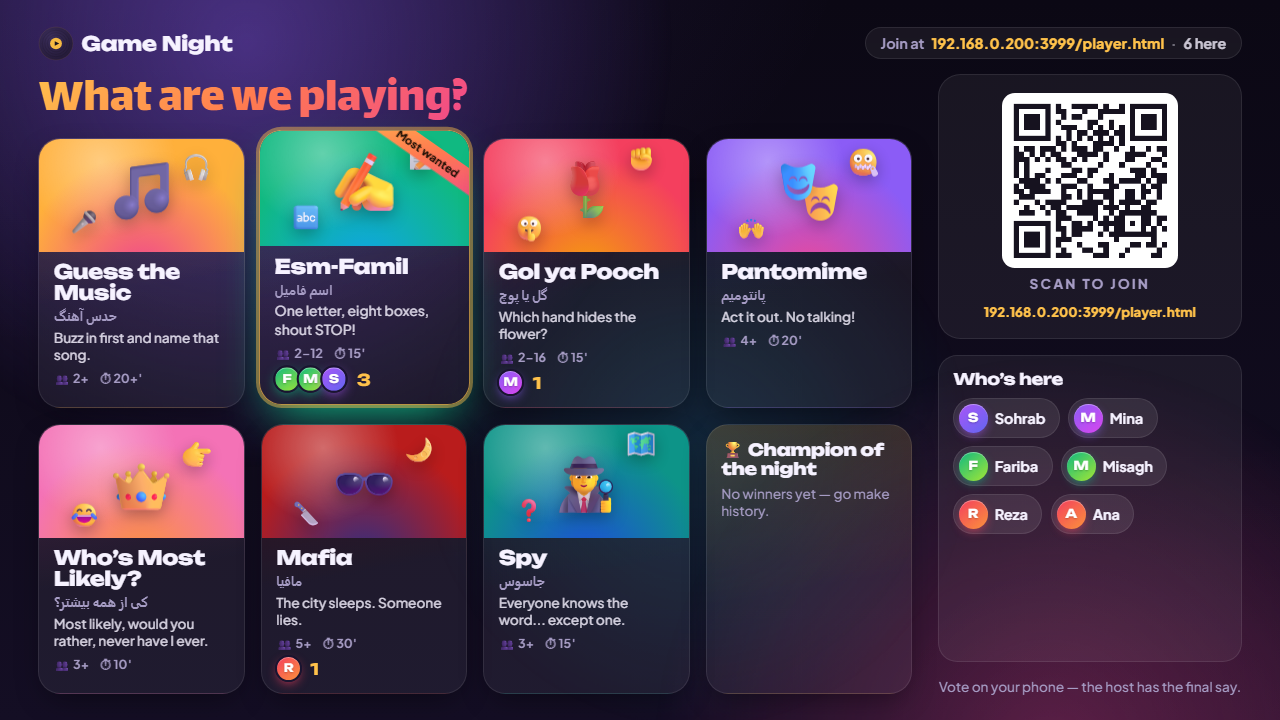
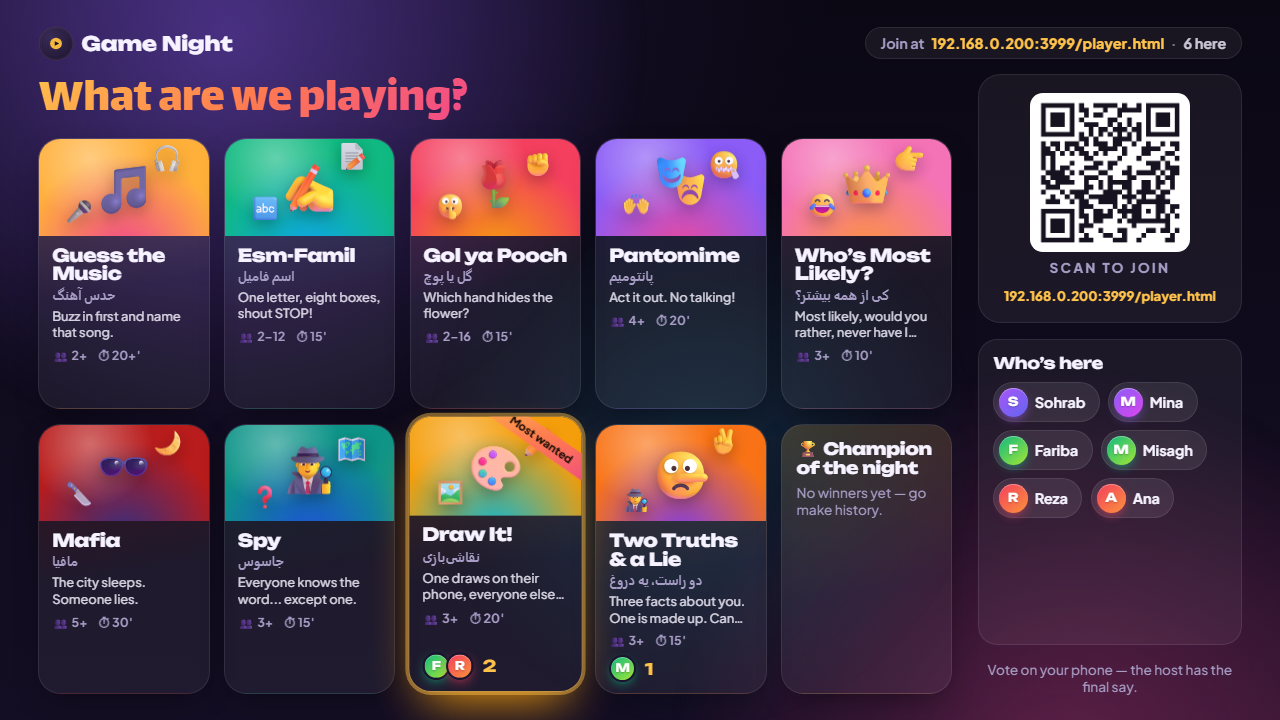
Docs: Draw It!, Two Truths & a Lie, one-TV sound and the song editor (Phase 35)
Claude-Session: https://claude.ai/code/session_01R64FqpmCsCYEaZ5ZMa5x9N

diff --git a/CLAUDE.md b/CLAUDE.md
@@ -290,6 +290,16 @@ Phase 34 (shipped) — every hub game expanded ("make them more complete and fun
 - Bugs found by screenshots: `.hub-card`'s entrance animation with `fill-mode: both` kept overriding the spotlight / "most wanted" transforms forever (→ `backwards`); the letter grid offered hard letters with them off; the golden "×2" used a Latin digit on Farsi; the phone hint said "tap a player" on rather/never rounds. And the Phase 33 middle-dot lesson struck twice more: the new Pantomime card «آسون · ۱ امتیاز» read as "Easy, 10 points", and the phone's Mafia vote eyebrow «روز ۱ · ۵۸» (day number · countdown) read as "Day 1058" — that one dated from Phase 33 and survived its double-check. Before shipping anything a Farsi screen shows, grep the strings AND the view templates for `·` (`Hub.SEP` in HTML, the Persian comma «،» inside a translated string).
 - Tests (scratch): `test-expand.js` 47 socket checks for all of the above; the Phase 33 suites (98 + 18 + 16 + 11 + 13 + 7 + parity) still pass. Screenshot-harness lessons: (1) headless Chromium on localhost HAS Wake Lock but denies it, so every phone screenshot showed the "your phone may lock itself" hint — real phones over http have no Wake Lock and NoSleep's video fallback reports 'on'; strip `Navigator.prototype.wakeLock` in an init script to match reality. (2) A `.ps1` run from Git Bash needs `-ExecutionPolicy Bypass`; with the error swallowed, "stop the test server" silently did nothing and the next "fresh" run reused the previous run's instance — check the port is actually free before starting another.
 
+Phase 35 (shipped) — tests in the repo, one TV plays sound, Draw It!, Two Truths & a Lie, song editor:
+
+- **Tests live in the repo now** (`tests/`, `npm test`; the scratch-dir copies kept getting wiped by temp cleanup). `tests/run.js` starts the real `server.js` once per suite on :3999 with `DATA_DIR=<throwaway dir>` and `NO_MDNS=1` (two small env switches added to server.js for this), cwd = that dir so dotenv loads no `.env`; JOIN_PIN/API keys are blanked, the pin suite sets its own. `npm test -- hub pin`, `--no-browser`, `-v`. socket.io-client + playwright are devDependencies. Playwright 1.65 wants chromium build 1254 but this PC has 1243: `tests/lib/browser.js` falls back to the newest installed `chromium_headless_shell-*` instead of forcing a 150 MB download. 13 suites, 390 checks: misc, hub, expand, edge, adult, tvs, draw, truths, music, plus the browser suites switch, ui, songs, pin.
+- **Only one TV plays sound** (`games/tv-screens.js`): every TV page (music and hub) registers with a per-tab `screen` id (sessionStorage, so it survives the music <-> hub hand-off), `kiosk` (launch-kiosk.ps1 now opens `tv.html?kiosk=1`), `fullscreen` (screen size == window size: catches a kiosk launched the old way) and `visible`. The server picks one sound screen: latest "Play the sound here" click > kiosk > full screen > visible > opened first; a click replaces earlier clicks; a screen that disconnects keeps its place for 8 s (page changes/reloads). Each TV socket gets `tvSound {sound, screens}` — sent *before* its first state, so a second TV is muted before it ever starts a song. `tv:playerStatus` only counts from the sound screen. `public/js/tv-sound.js` (shared by both TV pages) shows the muted note + button; tv.js wraps each YT player's `mute`/`unMute` once (`guardSound`) so the existing preroll/fade/spare code keeps saying what it wants and a muted screen just never really unmutes; `playTones` and the hub's `tones`/`noise` are silent there. Host pages show "📺 N TV screens open" (`tvScreens` in both host payloads). Verified with real YouTube playback (two TV pages, defaults and animations off, claim before/after the spare preloaded). **Harness lesson:** polling a TV page with `page.evaluate` every 200 ms in a two-TV headless run stalled the TV's countdown and looked like a bug (I chased it for a while); sampling every 500–700 ms showed it working. Don't poll TV pages faster than ~2/s.
+- **Draw It!** (`games/draw.js`, `public/hub/js/draw.js`): choosing (2 easy + 1 hard ×2, 15 s then a random easy one) → drawing → reveal (time-lapse replay) → final (podium + gallery of the night). Scoring 3/2/1 per guess order, artist +1 per right guess, hard doubles all of it. Strokes stay out of the regular payload: the artist's phone batches points every 40 ms (`player:draw:stroke {i, c, w, p}`, coordinates in a 1000×750 space, server clamps/validates and keeps the drawing), relayed as `draw:pts`; undo/clear send `draw:all`; a page that (re)loads mid-turn emits the new generic **`hub:sync`** (hub.js calls the active game's `sync(socket)`) and gets `draw:sync`; the gallery (thinned points, last 12) goes out once as `draw:gallery`. Guess matching: answerKey + leading article / plural ending (en: a/an/the, -s/-es; fa: یه/یک, ها); **no substring matching** — short Persian words sit inside longer ones (در/دریا, ماه/ماهی). A near miss (edit distance 1, or 2 for 8+ letters, only for 4+ letter words) is private "so close", never on the TV feed. Letter hints at 50% and 75% (never more than all-but-two letters). Words (`games/data/draw-words.js`, fa 115+75, en 110+74) allow alternatives after `/` (هندونه/هندوانه, Sofa/Couch); drawn words don't repeat tonight.
+- **Two Truths & a Lie** (`games/truths.js`): lines are written in the lobby (or mid-game: a new writer is appended to the queue) and only ever sent to their own phone until told; the lie's position goes to the teller always and to everyone at the reveal; lines are shuffled per turn. telling (question time, default 30 s, 0 skips) → voting (secret, changeable) → reveal. Catch +1; teller +1 per fooled voter, +1 more for fooling everyone (2+ voters). Told lines are deleted (write new ones next game); a skipped teller keeps theirs.
+- **Menu** is a 5×2 grid now (9 games + champions); taglines clamp to 2 lines. **Bidi:** the other-language subtitle under a game name rendered "!Draw It" in the Farsi lobby — a plain `<bdi>` wasn't enough there; it now gets an explicit `dir` (lobby, menu card, splash).
+- **Song editor:** `host:setSongInfo` takes `artist` and `year` too (year '' / null clears year + decade, a valid year sets the decade, a blank title is ignored). Host page: ✎ on every playlist row and a "＋ year" chip on songs without one open a dialog that lives outside the playlist (which is rebuilt on every broadcast). Keyboard shortcuts no longer fire for Space/Enter on a focused button or chip, while the dialog is open, or with Ctrl/Alt/Meta (Ctrl+R used to reset the buzzers, Ctrl+C to close the round).
+- **Data cleanup** (live playlist edited while the server was stopped; backup `playlist.backup-before-phase35-cleanup.json`): the 9 songs with no decade got a year (best guesses — release year where the video description says it, else the upload year; "Moein Live Concert" is really "Be Didane Man (Live)"). Checking the 263 oldest entries against their real YouTube videos found 3 broken ones: two videos deleted from YouTube ("Shabe Sher" — Shohreh, "Kabootar" — Shahram Solati → their official Topic uploads) and "Nafas-e Jan" pointing at an unrelated Indonesian song (→ Morteza Jafarzadeh's "Nafas Jan", the best-known one); all three verified playing in the real player. The "messy titles of the original 284 songs" from Phases 22/23 turned out to be already clean. At the user's request three anonymous tracks with no known artist were removed ("Azeri Dance Music", "Raghs va Avaz Shad Kordi", "Vay Vay"; backup playlist.backup-before-removing-3-anonymous.json): 3,161 songs.
+
 Next ideas, not yet started:
 
 - More languages — i18n.js's translations object is keyed by language code, so adding a third is mostly copying the 'en'/'fa' block and adding a toggle button in host.html.

diff --git a/README.md b/README.md
@@ -21,6 +21,8 @@ Guess the Music is one game in a hub. The TV opens on a game menu; players vote 
 | 👑 **Who's Most Likely?** · کی از همه بیشتر؟ | A question goes up, everyone secretly votes for a player, the votes stack up on the TV. Voting with the crowd = +1; the "winners" collect titles. Mixed in: *Would you rather* (the bigger side scores) and *Never have I ever* (no points, just confessions). Players can write their own questions. |
 | 🕶 **Mafia** · مافیا | The app narrates. Secret roles on phones (Godfather, Mafia, Doctor, Detective, optional Sniper, Citizens). At night *everyone* taps someone — citizens pick a "suspect" — so nobody can tell who's who from who's tapping. By day the town votes someone onto trial: they get a defense, then a secret guilty / innocent vote and last words. Optional Bulletproof (survives one shot) and Jester (wins if voted out). The host page is a narrator dashboard with one "next step" button. |
 | 🕵 **Spy** · جاسوس | Everyone sees the same secret word except the spy. Ask each other questions, then vote; a caught spy can still win by picking the word from the board on the TV. The TV sets a shuffled asking order, and a bold spy can call the word early: right = +3, wrong = everyone else scores. |
+| 🎨 **Draw It!** · نقاشیبازی | One player draws a secret word on their phone with a finger; the drawing appears stroke by stroke on the TV while everyone else types guesses. First right guess 3 points, second 2, then 1, and the artist gets 1 for every right guess. The artist picks from two easy words or one hard one (double points). Wrong guesses scroll by on the TV (near misses only get a private "so close!"), letter hints appear at half time, the reveal replays the drawing as a time-lapse, and the game ends with a gallery of the night's drawings, a best artist and a sharpest eye. Persian and English word banks; formal and spoken Persian spellings both count. |
+| 🤥 **Two Truths & a Lie** · دو راست، یه دروغ | Everyone writes three things about themselves on their phone and marks the made-up one (there's an idea button). One teller at a time: the three lines go up on the TV as index cards, everyone grills the teller out loud, then votes in secret. Catch the lie: +1. Fool someone: +1 for each, and +1 more for fooling everyone. Awards for the best liar and the lie detector. |
 
 <p>
   <img src="docs/screenshots/hub/03-esmfamil-writing.png" width="49%" alt="Esm-Famil: the letter and everyone's progress on the TV" />
@@ -33,6 +35,14 @@ Guess the Music is one game in a hub. The TV opens on a game menu; players vote 
 <p>
   <img src="docs/screenshots/hub/14-mafia-trial.png" width="49%" alt="Mafia: the accused is on trial, guilty or innocent?" />
   <img src="docs/screenshots/hub/15-mostlikely-rather.png" width="49%" alt="Would you rather: the room splits" />
+</p>
+<p>
+  <img src="docs/screenshots/hub/16-draw-tv.png" width="49%" alt="Draw It!: the drawing live on the TV, guesses on the right" />
+  <img src="docs/screenshots/hub/17-truths-reveal.png" width="49%" alt="Two Truths and a Lie: the lie is stamped" />
+</p>
+<p>
+  <img src="docs/screenshots/hub/18-draw-artist.png" width="24%" alt="Draw It!: the artist's phone" />
+  <img src="docs/screenshots/hub/19-truths-write.png" width="24%" alt="Two Truths and a Lie: writing your three lines" />
 </p>
 <p>
   <img src="docs/screenshots/hub/04-esmfamil-phone.png" width="24%" alt="Esm-Famil answer sheet on a phone" />
@@ -167,7 +177,7 @@ Genres come from one fixed list (19 international ones plus Persian Pop, Persian
 
 A big playlist only renders the first 100 matching songs at a time (**Show more** loads the next page), so it stays fast with thousands of songs.
 
-New songs added through the host page can carry a year (which sets the decade) and a difficulty; imported songs can be tagged the same way. The decade and difficulty values are best-effort estimates, so expect to nudge a few.
+New songs added through the host page can carry a year (which sets the decade) and a difficulty; imported songs can be tagged the same way. The decade and difficulty values are best-effort estimates, so expect to nudge a few: the **✎** button on a playlist row edits a song's title, artist, year and film / series, and a song with no year shows a **＋ year** chip that opens the same editor.
 
 Tip: pick videos that don't show the song title on screen (plain "official audio" uploads work great), since the video only stays hidden behind a spinning-record animation *while the round is live* — once you hit **Reveal**, the real video appears.
 
@@ -250,6 +260,8 @@ powershell -NoProfile -WindowStyle Hidden -ExecutionPolicy Bypass -File C:\Guess
 To exit kiosk mode, `Alt+F4` the Chrome window (or kill it from Task Manager).
 
 > **TV goes black after a few minutes?** Windows turns the display off after a period with no keyboard/mouse input (the default is 5 minutes), and during a game nobody touches the PC — the phones are the controllers. The page keeps running (and the music keeps playing); only the picture is gone. On the TV PC, set it to never: `powercfg /change monitor-timeout-ac 0` (and `standby-timeout-ac 0` so the PC itself never sleeps).
+
+> **Two TV pages open?** Only one of them plays sound. If the TV page is also open somewhere else (a forgotten `tv.html` tab in your everyday Chrome, say), that copy stays muted and says so in a corner, and the host page shows "📺 2 TV screens open". The kiosk window gets the sound first (the launcher opens `tv.html?kiosk=1`); otherwise the screen that fills the display, then a visible one, then the one opened first. **Play the sound here** on a muted screen moves the sound to it.
 
 > **Songs stuck on "Loading…" on the TV?** That's almost always Chrome blocking autoplay because the TV page is open in an *ordinary* Chrome window instead of the kiosk launcher above (only the launcher passes `--autoplay-policy=no-user-gesture-required`). The TV now shows a "Click anywhere to start the music" screen when it happens — one click fixes it until the page is reloaded — but the lasting fix is to close the ordinary window and re-open the TV with the `launch-kiosk.ps1` command above.
 
